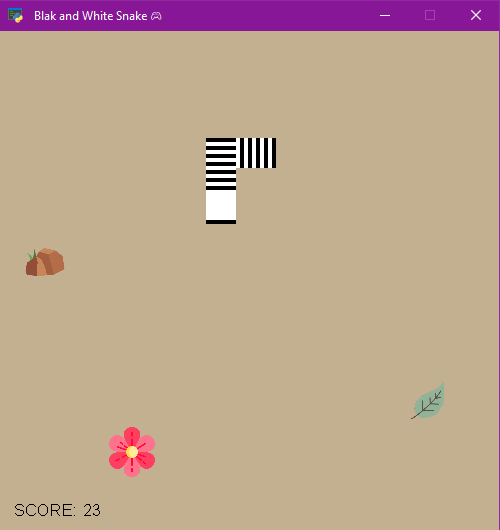
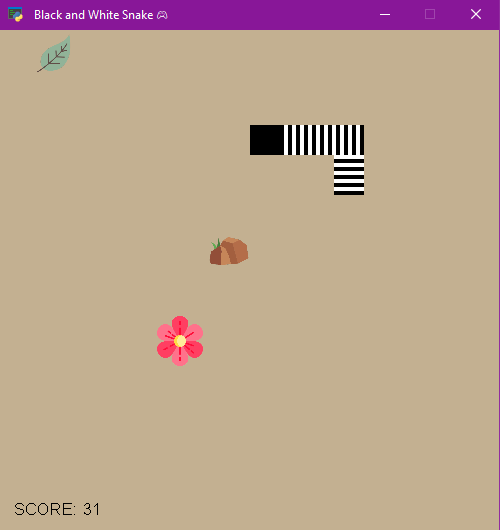
15

diff --git a/assignment_15/main.py b/assignment_15/main.py
@@ -8,7 +8,7 @@ from snake import Snake
 
 class Game(arcade.Window):
     def __init__(self):
-        super().__init__(width=500, height=500, title="  Blak and White Snake 🎮 ")
+        super().__init__(width=500, height=500, title="  Black and White Snake 🎮 ")
         arcade.set_background_color(arcade.color.KHAKI)
         self.flower = Flower(self)
         self.leaf = Leaf(self)
